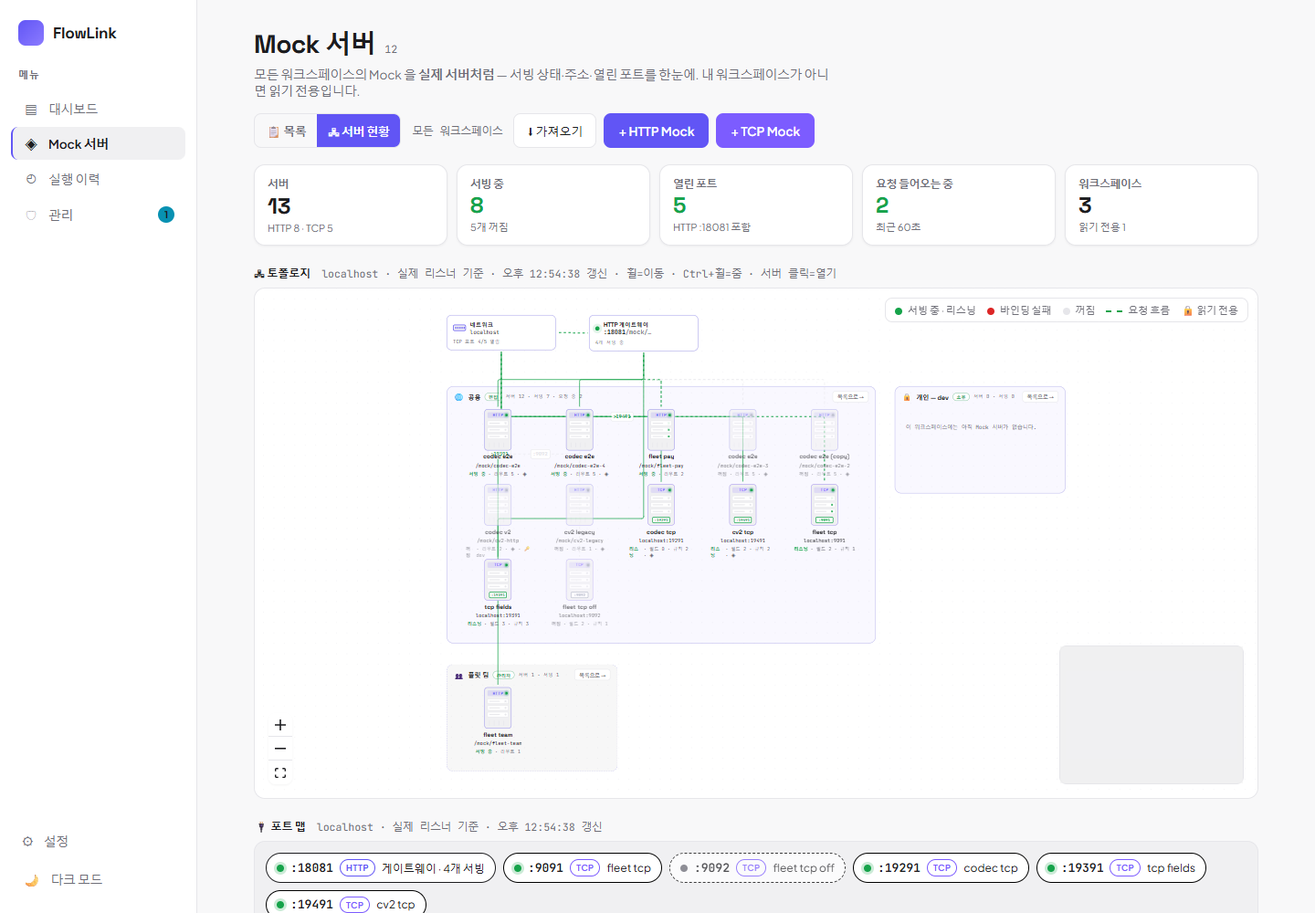
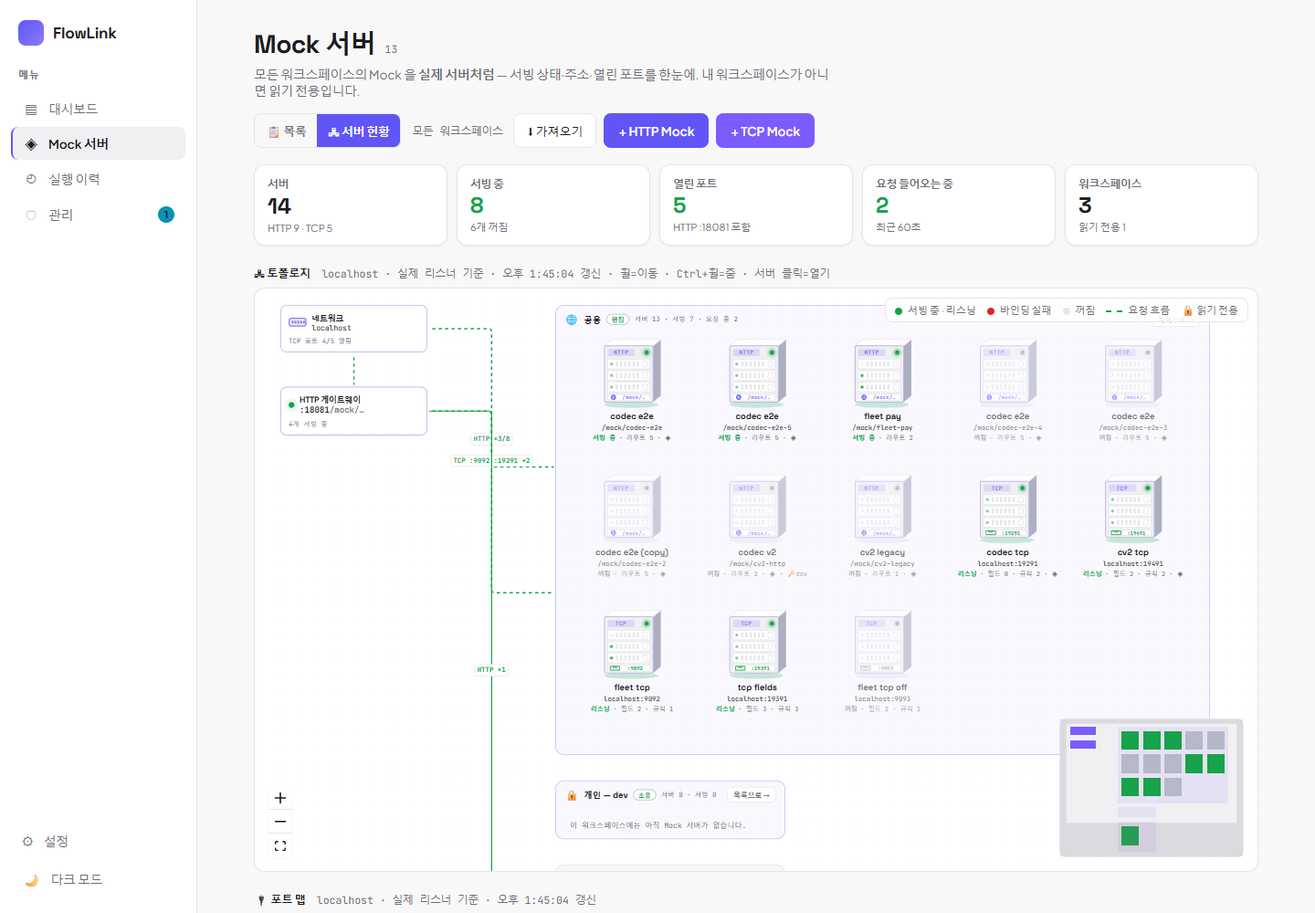
feat(mock): 서버 현황 토폴로지 — 2.5D 랙 서버 아이콘(LED·포트 잭·호버 카드) + 왼쪽 열/존 세로 배치 + 존 단위 선
- 서버마다 컴퓨터 아이콘(전원 LED·활동 LED·HTTP/TCP·포트 잭·바닥 광), 호버 상세 카드(옆으로, 마지막 열은 왼쪽)
- 네트워크/게이트웨이 왼쪽 열, 워크스페이스 존 오른쪽 세로 쌓기, 선은 존 단위(HTTP ×N / TCP :포트…) — 서버를 가로지르지 않음
- 맞춤 뷰포트 직접 계산(넘치면 왼쪽 위부터), 미니맵 노드 렌더(onNodesChange 누락 수정)
- fleet.mjs 38 + product/split/ui 무회귀, 가이드 10장·스크린샷 갱신

Claude-Session: https://claude.ai/code/session_015D7zBGLc7rVy3vDsMZaV2x

diff --git a/frontend/src/components/MockTopology.tsx b/frontend/src/components/MockTopology.tsx
@@ -1,7 +1,7 @@
-import { Background, Controls, Handle, MiniMap, Panel, Position, ReactFlow, useEdgesState, useNodesState } from '@xyflow/react'
+import { Background, Controls, Handle, MiniMap, Panel, Position, ReactFlow, getNodesBounds, useEdgesState, useNodesState } from '@xyflow/react'
 import type { Edge, Node, NodeProps, ReactFlowInstance } from '@xyflow/react'
 import type { CSSProperties } from 'react'
-import { useEffect, useMemo, useRef } from 'react'
+import { useEffect, useMemo, useRef, useState } from 'react'
 import type { MockFleet, MockFleetServer, MockFleetWorkspace } from '../api/types'
 import { mockBaseUrl } from '../api/client'
 import { relTime } from '../lib/format'
@@ -12,7 +12,7 @@ import { relTime } from '../lib/format'
  * 켜짐/꺼짐/바인딩 실패는 전원 LED·선 색으로, 요청이 들어오면 활동 LED 가 깜빡이고 선이 흐른다. 팬/줌·미니맵·맞춤.
  * 위치는 데이터에서 계산(드래그 없음) — 5초 폴링마다 상태만 갱신.
  */
-export function MockTopology({ fleet, host, tenant, onOpen, onOpenWorkspace, height = 560 }: {
+export function MockTopology({ fleet, host, tenant, onOpen, onOpenWorkspace, height = 640 }: {
   fleet: MockFleet
   host: string
   tenant?: string | null
@@ -21,28 +21,45 @@ export function MockTopology({ fleet, host, tenant, onOpen, onOpenWorkspace, hei
   height?: number
 }) {
   const built = useMemo(() => buildGraph(fleet, host, tenant, onOpenWorkspace), [fleet, host, tenant, onOpenWorkspace])
-  const [nodes, setNodes] = useNodesState<Node>(built.nodes)
-  const [edges, setEdges] = useEdgesState<Edge>(built.edges)
+  // onNodesChange 를 꼭 넘겨야 측정(dimensions) 변경이 nodes 에 반영된다 — 없으면 미니맵이 노드를 못 그리고 bounds 도 0 크기
+  const [nodes, setNodes, onNodesChange] = useNodesState<Node>(built.nodes)
+  const [edges, setEdges, onEdgesChange] = useEdgesState<Edge>(built.edges)
   const inst = useRef<ReactFlowInstance<Node, Edge> | null>(null)
   const shapeRef = useRef('')
+  const wrapRef = useRef<HTMLDivElement>(null)
+  /** 맞춤 — RF fitView 는 비동기(다음 프레임)라 뷰포트를 직접 계산: 다 들어가면 가운데, 줌 하한에 걸려 넘치면 왼쪽 위(네트워크·게이트웨이·첫 존)부터. */
+  const fit = (i: ReactFlowInstance<Node, Edge> | null) => {
+    const el = wrapRef.current
+    if (!i || !el) return
+    const b = getNodesBounds(i.getNodes())
+    if (!(b.width > 0 && b.height > 0)) return
+    const cw = el.clientWidth, ch = el.clientHeight, pad = 28
+    const z = Math.min(FIT.maxZoom, Math.max(FIT.minZoom, Math.min((cw - pad * 2) / b.width, (ch - pad * 2) / b.height)))
+    const fits = b.width * z <= cw - pad * 2 && b.height * z <= ch - pad * 2
+    void i.setViewport({
+      x: (fits ? (cw - b.width * z) / 2 : pad) - b.x * z,
+      y: (fits ? (ch - b.height * z) / 2 : 18) - b.y * z,
+      zoom: z,
+    })
+  }
   useEffect(() => {
     setNodes(built.nodes); setEdges(built.edges)
     // 서버 집합/존 배치가 바뀌었을 때만 맞춤(상태 폴링마다 뷰가 튀지 않게)
     const shape = built.nodes.map((n) => `${n.id}@${Math.round(n.position.x)},${Math.round(n.position.y)}`).join('|')
-    if (shape !== shapeRef.current) { shapeRef.current = shape; setTimeout(() => inst.current?.fitView({ padding: 0.12, duration: 300 }), 30) }
+    if (shape !== shapeRef.current) { shapeRef.current = shape; setTimeout(() => fit(inst.current), 60) }
   }, [built, setNodes, setEdges])
   return (
-    <div className="fl-topology" aria-label="서버 토폴로지" style={{ height, border: '1px solid var(--fl-border)', borderRadius: 'var(--fl-radius)', background: 'var(--fl-surface)', overflow: 'hidden', position: 'relative' }}>
-      <ReactFlow nodes={nodes} edges={edges} nodeTypes={NODE_TYPES} onInit={(i) => { inst.current = i; i.fitView({ padding: 0.12 }) }}
+    <div ref={wrapRef} className="fl-topology" aria-label="서버 토폴로지" style={{ height, border: '1px solid var(--fl-border)', borderRadius: 'var(--fl-radius)', background: 'var(--fl-surface)', overflow: 'hidden', position: 'relative' }}>
+      <ReactFlow nodes={nodes} edges={edges} onNodesChange={onNodesChange} onEdgesChange={onEdgesChange} nodeTypes={NODE_TYPES} onInit={(i) => { inst.current = i; setTimeout(() => fit(i), 60) }}
         nodesDraggable={false} nodesConnectable={false} elementsSelectable={false} panOnScroll zoomOnDoubleClick={false} minZoom={0.25} maxZoom={1.8}
-        proOptions={{ hideAttribution: true }} fitView
+        proOptions={{ hideAttribution: true }}
         onNodeClick={(_, n) => { const s = (n.data as { server?: MockFleetServer }).server; if (s && s.readable) onOpen(s) }}>
         <Background gap={22} color="var(--fl-border)" />
-        <MiniMap pannable zoomable nodeStrokeWidth={2} nodeColor={(n) => {
+        <MiniMap pannable zoomable nodeStrokeWidth={0} nodeBorderRadius={4} maskColor="rgba(120,120,140,0.18)" nodeColor={(n) => {
           const s = (n.data as { server?: MockFleetServer }).server
-          if (!s) return n.type === 'fzone' ? 'transparent' : 'var(--fl-text-muted)'
-          return machineState(s) === 'on' ? 'var(--fl-ok)' : machineState(s) === 'fail' ? 'var(--fl-fail)' : 'var(--fl-border)'
-        }} style={{ background: 'var(--fl-surface-2)' }} />
+          if (!s) return n.type === 'fzone' ? 'rgba(124,92,255,0.10)' : '#7c5cff'
+          return machineState(s) === 'on' ? '#16a34a' : machineState(s) === 'fail' ? '#dc2626' : '#b4b8c8'
+        }} style={{ background: 'var(--fl-surface-2)', border: '1px solid var(--fl-border)', borderRadius: 8 }} />
         <Controls showInteractive={false} />
         <Panel position="top-right" style={legend}>
           <span><i style={{ ...dot, background: 'var(--fl-ok)' }} /> 서빙 중 · 리스닝</span>
@@ -58,7 +75,9 @@ export function MockTopology({ fleet, host, tenant, onOpen, onOpenWorkspace, hei
 
 // ---------- 그래프 조립(위치 계산) ----------
 
-const CELL_W = 172, CELL_H = 158, ZONE_PAD = 22, ZONE_HEAD = 46, MAX_COLS = 5, ROW_GAP = 44, COL_GAP = 40, MAX_ROW_W = 1360
+const CELL_W = 196, CELL_H = 212, ZONE_PAD = 22, ZONE_HEAD = 46, MAX_COLS = 5, ROW_GAP = 40, ZONE_X = 430 // 왼쪽 열(장비 230) + 거터 200(선·라벨)
+/** 맞춤 줌 — 서버가 많아도 아이콘이 너무 작아지지 않게 하한(0.7)을 두고 넘치면 팬으로 본다. */
+const FIT = { minZoom: 0.7, maxZoom: 1.05 }
 export type MachineState = 'on' | 'off' | 'fail'
 export function machineState(s: MockFleetServer): MachineState {
   return s.kind === 'TCP' ? (s.listening ? 'on' : s.listenError ? 'fail' : 'off') : (s.enabled ? 'on' : 'off')
@@ -77,47 +96,53 @@ function buildGraph(f: MockFleet, host: string, tenant: string | null | undefine
   const anyHttpLive = f.servers.some((s) => s.kind !== 'TCP' && s.recentRequests > 0)
   const tcpOpen = f.ports.filter((p) => p.kind === 'TCP' && p.state === 'LISTENING').length
   nodes.push({ id: 'net', type: 'fnet', position: { x: 0, y: 0 }, data: { host, tcpOpen, tcpTotal: f.ports.filter((p) => p.kind === 'TCP').length }, draggable: false, selectable: false })
-  nodes.push({ id: 'gw', type: 'fgw', position: { x: 300, y: 0 }, data: { port: f.httpPort, count: f.ports.find((p) => p.kind === 'HTTP')?.count ?? 0, contextPath: f.contextPath, live: anyHttpLive }, draggable: false, selectable: false })
-  edges.push({ id: 'net-gw', source: 'net', sourceHandle: 'r', target: 'gw', targetHandle: 'l', type: 'smoothstep', animated: anyHttpLive, style: { stroke: 'var(--fl-ok)', strokeWidth: 2 } })
+  nodes.push({ id: 'gw', type: 'fgw', position: { x: 0, y: 128 }, data: { port: f.httpPort, count: f.ports.find((p) => p.kind === 'HTTP')?.count ?? 0, contextPath: f.contextPath, live: anyHttpLive }, draggable: false, selectable: false })
+  edges.push({ id: 'net-gw', source: 'net', sourceHandle: 'b', target: 'gw', targetHandle: 't', type: 'smoothstep', animated: anyHttpLive, style: { stroke: 'var(--fl-ok)', strokeWidth: 2 } })
 
-  // 존 배치 — 왼쪽부터 채우고 폭이 넘치면 다음 줄
-  let x = 0, y = 150, rowH = 0
+  // 존 배치 — 오른쪽 열에 세로로 쌓는다(선은 왼쪽 거터만 타므로 다른 존을 가로지르지 않음)
+  const x = ZONE_X
+  let y = 0
   for (const w of zones) {
     const servers = byWs.get(w.id) ?? []
     const n = servers.length
     const cols = Math.max(1, Math.min(MAX_COLS, n))
     const rows = Math.max(1, Math.ceil(n / cols))
     const zw = Math.max(360, ZONE_PAD * 2 + cols * CELL_W)
-    const zh = ZONE_HEAD + ZONE_PAD + rows * CELL_H
-    if (x > 0 && x + zw > MAX_ROW_W) { x = 0; y += rowH + ROW_GAP; rowH = 0 }
+    const zh = n === 0 ? ZONE_HEAD + 46 : ZONE_HEAD + ZONE_PAD + rows * CELL_H
     const zid = `ws:${w.id}`
     nodes.push({ id: zid, type: 'fzone', position: { x, y }, data: { ws: w, count: n, on: servers.filter((s) => machineState(s) === 'on').length, live: servers.filter((s) => s.recentRequests > 0).length, onOpen: onOpenWorkspace }, style: { width: zw, height: zh }, zIndex: -1, draggable: false, selectable: false })
     servers.forEach((s, i) => {
       const col = i % cols, row = Math.floor(i / cols)
       const px = x + ZONE_PAD + col * CELL_W + (CELL_W - MACHINE_W) / 2
       const py = y + ZONE_HEAD + row * CELL_H
-      nodes.push({ id: `m:${s.id}`, type: 'fmachine', position: { x: px, y: py }, data: { server: s, host, tenant }, draggable: false, selectable: false })
-      const st = machineState(s)
-      const live = s.recentRequests > 0
-      const color = st === 'on' ? 'var(--fl-ok)' : st === 'fail' ? 'var(--fl-fail)' : 'var(--fl-border-strong, var(--fl-border))'
-      const isTcp = s.kind === 'TCP'
-      edges.push({
-        id: `e:${s.id}`, source: isTcp ? 'net' : 'gw', sourceHandle: isTcp ? 'b' : 'b', target: `m:${s.id}`, targetHandle: 't', type: 'smoothstep', animated: live,
-        label: isTcp && s.tcpPort != null ? `:${s.tcpPort}` : undefined,
-        labelStyle: { fontFamily: 'var(--fl-font-mono)', fontSize: 10.5, fill: color, fontWeight: 700 },
-        labelBgStyle: { fill: 'var(--fl-surface)', stroke: 'var(--fl-border)' }, labelBgPadding: [4, 2], labelBgBorderRadius: 4,
-        style: { stroke: color, strokeWidth: live ? 2 : 1.4, strokeDasharray: st === 'off' ? '5 5' : undefined, opacity: st === 'off' ? 0.7 : 1 },
-      })
+      nodes.push({ id: `m:${s.id}`, type: 'fmachine', position: { x: px, y: py }, data: { server: s, host, tenant, cardSide: col >= cols - 1 ? 'left' : 'right' }, draggable: false, selectable: false })
     })
-    x += zw + COL_GAP
-    rowH = Math.max(rowH, zh)
+    // 선은 존 단위 — 서버마다 그으면 아이콘을 가로질러 지저분하다. 서버별 포트/상태는 아이콘(포트 잭·LED)에 있다.
+    const https = servers.filter((s) => s.kind !== 'TCP'), tcps = servers.filter((s) => s.kind === 'TCP')
+    if (https.length) {
+      const on = https.filter((s) => machineState(s) === 'on').length, live = https.some((s) => s.recentRequests > 0)
+      const color = on ? 'var(--fl-ok)' : 'var(--fl-border-strong, var(--fl-border))'
+      edges.push({ id: `eh:${w.id}`, source: 'gw', sourceHandle: 'r', target: zid, targetHandle: 'h', type: 'smoothstep', animated: live, label: `HTTP ×${on}${on < https.length ? `/${https.length}` : ''}`,
+        labelStyle: { fontFamily: 'var(--fl-font-mono)', fontSize: 10.5, fill: color, fontWeight: 700 }, labelBgStyle: { fill: 'var(--fl-surface)', stroke: 'var(--fl-border)' }, labelBgPadding: [4, 2], labelBgBorderRadius: 4,
+        style: { stroke: color, strokeWidth: live ? 2.2 : 1.6, strokeDasharray: on ? undefined : '5 5' } })
+    }
+    if (tcps.length) {
+      const open = tcps.filter((s) => s.listening), live = tcps.some((s) => s.recentRequests > 0), failed = tcps.some((s) => machineState(s) === 'fail')
+      const color = failed ? 'var(--fl-fail)' : open.length ? 'var(--fl-ok)' : 'var(--fl-border-strong, var(--fl-border))'
+      const ports = open.map((s) => s.tcpPort ?? 0).sort((a, b) => a - b).map((p) => `:${p}`)
+      const label = open.length ? `TCP ${ports.slice(0, 2).join(' ')}${ports.length > 2 ? ` +${ports.length - 2}` : ''}` : failed ? 'TCP 바인딩 실패' : 'TCP 꺼짐'
+      edges.push({ id: `et:${w.id}`, source: 'net', sourceHandle: 'r', target: zid, targetHandle: 't', type: 'smoothstep', animated: live, label,
+        labelStyle: { fontFamily: 'var(--fl-font-mono)', fontSize: 10.5, fill: color, fontWeight: 700 }, labelBgStyle: { fill: 'var(--fl-surface)', stroke: 'var(--fl-border)' }, labelBgPadding: [4, 2], labelBgBorderRadius: 4,
+        style: { stroke: color, strokeWidth: live ? 2.2 : 1.6, strokeDasharray: open.length ? undefined : '5 5' } })
+    }
+    y += zh + ROW_GAP
   }
   return { nodes, edges }
 }
 
 // ---------- 노드 컴포넌트 ----------
 
-const MACHINE_W = 136
+const MACHINE_W = 160
 
 function NetNode({ data }: NodeProps) {
   const d = data as { host: string; tcpOpen: number; tcpTotal: number }
@@ -149,8 +174,8 @@ function GatewayNode({ data }: NodeProps) {
         </div>
       </div>
       <div style={{ ...mono, fontSize: 10.5, marginTop: 6 }}>{d.count}개 서빙 중</div>
-      <Handle id="l" type="target" position={Position.Left} style={hiddenHandle} />
-      <Handle id="b" type="source" position={Position.Bottom} style={hiddenHandle} />
+      <Handle id="t" type="target" position={Position.Top} style={hiddenHandle} />
+      <Handle id="r" type="source" position={Position.Right} style={hiddenHandle} />
     </div>
   )
 }
@@ -171,85 +196,119 @@ function ZoneNode({ data }: NodeProps) {
         <span style={{ ...mono, fontSize: 10.5 }}>서버 {d.count} · 서빙 {d.on}{d.live ? ` · 요청 중 ${d.live}` : ''}</span>
         {readable && <button onClick={(e) => { e.stopPropagation(); d.onOpen(w.id) }} style={zoneBtn} title="이 워크스페이스의 목록 보기">목록으로 →</button>}
       </div>
-      {d.count === 0 && <div style={{ ...mono, position: 'absolute', left: ZONE_PAD, top: ZONE_HEAD + 30, fontSize: 11.5 }}>이 워크스페이스에는 아직 Mock 서버가 없습니다.</div>}
+      {d.count === 0 && <div style={{ ...mono, position: 'absolute', left: ZONE_PAD, top: ZONE_HEAD + 14, fontSize: 11.5 }}>이 워크스페이스에는 아직 Mock 서버가 없습니다.</div>}
+      <Handle id="h" type="target" position={Position.Left} style={{ ...hiddenHandle, top: '36%' }} />
+      <Handle id="t" type="target" position={Position.Left} style={{ ...hiddenHandle, top: '64%' }} />
     </div>
   )
 }
 
 function MachineNode({ data }: NodeProps) {
-  const { server: s, host, tenant } = data as { server: MockFleetServer; host: string; tenant?: string | null }
+  const { server: s, host, tenant, cardSide } = data as { server: MockFleetServer; host: string; tenant?: string | null; cardSide?: 'left' | 'right' }
+  const [hover, setHover] = useState(false)
   const st = machineState(s)
   const isTcp = s.kind === 'TCP'
   const live = s.recentRequests > 0
   const kindColor = isTcp ? 'var(--fl-cat-tcp, #7c5cff)' : 'var(--fl-cat-http, var(--fl-primary))'
   const ledColor = st === 'on' ? 'var(--fl-ok)' : st === 'fail' ? 'var(--fl-fail)' : 'var(--fl-border-strong, #9aa0b2)'
   const readOnly = !s.readable || s.myRole === 'VIEWER'
-  const address = isTcp ? `${host}:${s.tcpPort ?? '?'}` : mockBaseUrl(s.slug, tenant).replace(/^https?:\/\/[^/]+/, '')
+  const fullAddress = isTcp ? `${host}:${s.tcpPort ?? '?'}` : mockBaseUrl(s.slug, tenant)
+  const address = isTcp ? fullAddress : fullAddress.replace(/^https?:\/\/[^/]+/, '')
   const stateLabel = isTcp ? (st === 'on' ? '리스닝' : st === 'fail' ? '바인딩 실패' : '꺼짐') : (st === 'on' ? '서빙 중' : '꺼짐')
   const summary = !s.readable ? (isTcp ? `규칙 ${s.tcpRuleCount}` : `라우트 ${s.routeCount}`) + ' · 정의 비공개'
     : isTcp ? `필드 ${s.tcpFieldCount} · 규칙 ${s.tcpRuleCount}${s.hasCodec ? ' · ◈' : ''}` : `라우트 ${s.routeCount}${s.hasCodec ? ' · ◈' : ''}${s.environment ? ` · 🔑${s.environment}` : ''}`
-  const title = [
-    `${s.name} — ${isTcp ? 'TCP' : 'HTTP'} · ${stateLabel}${s.listenError ? ` (${s.listenError})` : ''}`,
-    isTcp ? `${host}:${s.tcpPort ?? '?'}` : mockBaseUrl(s.slug, tenant),
-    s.readable ? (s.routeLabels.length ? s.routeLabels.join(' · ') : summary) : '접근 권한이 없는 워크스페이스 — 이름·포트·상태만',
-    s.lastRequestAt ? `마지막 요청 ${relTime(s.lastRequestAt)} · 기록 ${s.requestCount}${s.unmatchedRequests ? ` · 무매칭 ${s.unmatchedRequests}` : ''}` : '요청 없음',
-    s.currentVersion ? `v${s.currentVersion}` : '',
-    s.readable ? (readOnly ? '읽기 전용 — 클릭하면 열람' : '클릭하면 편집기') : '',
-  ].filter(Boolean).join('\n')
   return (
-    <div className="fl-machine" data-state={st} data-readable={s.readable} data-kind={isTcp ? 'TCP' : 'HTTP'} title={title}
-      style={{ width: MACHINE_W, display: 'grid', justifyItems: 'center', gap: 3, cursor: s.readable ? 'pointer' : 'not-allowed', opacity: st === 'off' ? 0.62 : 1 }}>
+    <div className="fl-machine" data-state={st} data-readable={s.readable} data-kind={isTcp ? 'TCP' : 'HTTP'}
+      onMouseEnter={() => setHover(true)} onMouseLeave={() => setHover(false)}
+      style={{ width: MACHINE_W, display: 'grid', justifyItems: 'center', gap: 2, cursor: s.readable ? 'pointer' : 'not-allowed', opacity: st === 'off' ? 0.62 : 1, position: 'relative' }}>
       <Handle id="t" type="target" position={Position.Top} style={hiddenHandle} />
-      <Tower kindColor={kindColor} ledColor={ledColor} live={live} isTcp={isTcp} port={s.tcpPort ?? null} fail={st === 'fail'} lock={readOnly} unmatched={s.unmatchedRequests > 0} />
-      <div style={{ fontFamily: 'var(--fl-font-head)', fontWeight: 700, fontSize: 12.5, color: 'var(--fl-text)', maxWidth: MACHINE_W, overflow: 'hidden', textOverflow: 'ellipsis', whiteSpace: 'nowrap', textAlign: 'center' }}>{s.name}</div>
+      <Tower kindColor={kindColor} ledColor={ledColor} state={st} live={live} isTcp={isTcp} port={s.tcpPort ?? null} lock={readOnly} unmatched={s.unmatchedRequests > 0} />
+      <div style={{ fontFamily: 'var(--fl-font-head)', fontWeight: 800, fontSize: 13.5, color: 'var(--fl-text)', maxWidth: MACHINE_W, overflow: 'hidden', textOverflow: 'ellipsis', whiteSpace: 'nowrap', textAlign: 'center', marginTop: 2 }}>{s.name}</div>
       <div style={{ ...mono, fontSize: 10.5, color: 'var(--fl-text)', maxWidth: MACHINE_W, overflow: 'hidden', textOverflow: 'ellipsis', whiteSpace: 'nowrap' }}>{address}</div>
-      <div style={{ ...mono, fontSize: 10, display: 'flex', gap: 5, alignItems: 'center' }}>
+      <div style={{ ...mono, fontSize: 10, display: 'flex', gap: 5, alignItems: 'center', maxWidth: MACHINE_W, overflow: 'hidden', whiteSpace: 'nowrap' }}>
         <span style={{ color: st === 'off' ? 'var(--fl-text-muted)' : ledColor, fontWeight: 700 }}>{stateLabel}</span>
-        <span>· {summary}</span>
+        <span style={{ overflow: 'hidden', textOverflow: 'ellipsis' }}>· {summary}</span>
       </div>
+      {hover && (
+        <div className="fl-machine-card" role="tooltip" style={{ ...hoverCard, ...(cardSide === 'left' ? { right: 'calc(100% + 6px)' } : { left: 'calc(100% + 6px)' }) }}>
+          <div style={{ display: 'flex', alignItems: 'center', gap: 6, minWidth: 0 }}>
+            <b style={{ fontSize: 13, overflow: 'hidden', textOverflow: 'ellipsis', whiteSpace: 'nowrap', minWidth: 0 }}>{s.name}</b>
+            <span style={{ fontSize: 9.5, fontWeight: 800, color: kindColor, border: '1px solid currentColor', borderRadius: 999, padding: '0 6px', flexShrink: 0 }}>{isTcp ? 'TCP' : 'HTTP'}</span>
+            <span style={{ fontSize: 11, fontWeight: 700, color: st === 'off' ? 'var(--fl-text-muted)' : ledColor, flexShrink: 0 }}>{stateLabel}</span>
+          </div>
+          {s.listenError && <div style={{ fontSize: 11, color: 'var(--fl-fail)' }}>{s.listenError}</div>}
+          <div style={{ ...mono, fontSize: 11, color: 'var(--fl-text)', wordBreak: 'break-all' }}>{fullAddress}</div>
+          {s.readable ? (
+            isTcp ? <div style={{ ...mono, fontSize: 10.5 }}>요청 필드 {s.tcpFieldCount} · 규칙 {s.tcpRuleCount}{s.hasCodec ? ' · ◈ 코덱' : ''}{s.environment ? ` · 🔑 ${s.environment}` : ''}</div>
+              : s.routeLabels.length > 0
+                ? <div style={{ display: 'flex', gap: 4, flexWrap: 'wrap' }}>{s.routeLabels.slice(0, 8).map((l, i) => <span key={i} style={cardPill}>{l}</span>)}{s.routeCount > 8 && <span style={cardPill}>+{s.routeCount - 8}</span>}</div>
+                : <div style={{ ...mono, fontSize: 10.5 }}>라우트 없음</div>
+          ) : <div style={{ fontSize: 10.5, color: 'var(--fl-text-muted)' }}>🔒 접근 권한이 없는 워크스페이스 — 이름·포트·상태만 보입니다.</div>}
+          <div style={{ ...mono, fontSize: 10.5 }}>
+            {s.lastRequestAt ? `마지막 요청 ${relTime(s.lastRequestAt)} · 기록 ${s.requestCount}` : '요청 없음'}{s.unmatchedRequests > 0 ? ` · 무매칭 ${s.unmatchedRequests}` : ''}{s.currentVersion > 0 ? ` · v${s.currentVersion}` : ''}
+          </div>
+          {s.readable && <div style={{ fontSize: 10.5, color: 'var(--fl-text-muted)' }}>{readOnly ? '읽기 전용 — 클릭하면 열람' : '클릭하면 편집기로'}</div>}
+        </div>
+      )}
     </div>
   )
 }
 
-/** 서버 타워 일러스트 — 전원 LED(상태)·활동 LED(트래픽 깜빡임)·종류 라벨·TCP 포트 잭. */
-function Tower({ kindColor, ledColor, live, isTcp, port, fail, lock, unmatched }: { kindColor: string; ledColor: string; live: boolean; isTcp: boolean; port: number | null; fail: boolean; lock: boolean; unmatched: boolean }) {
+/**
+ * 서버 아이콘 — 2.5D 랙 서버(윗면·옆면·앞면). 앞면: 종류 라벨 + 전원 LED(상태색·켜지면 광), 랙 유닛 3단(활동 LED=트래픽 깜빡임·통풍구·핸들),
+ * 하단 베젤(TCP=RJ45 잭+포트 / HTTP=글로브). 바닥 그림자는 켜져 있으면 상태색으로 "떠 있는" 느낌. 배지 `!` 바인딩 실패 · `?` 무매칭 · 🔒.
+ */
+function Tower({ kindColor, ledColor, state, live, isTcp, port, lock, unmatched }: {
+  kindColor: string; ledColor: string; state: MachineState; live: boolean; isTcp: boolean; port: number | null; lock: boolean; unmatched: boolean
+}) {
+  const on = state === 'on'
   return (
-    <svg width={76} height={92} viewBox="0 0 76 92" aria-hidden style={{ display: 'block', overflow: 'visible' }}>
+    <svg width={118} height={116} viewBox="0 0 118 116" aria-hidden style={{ display: 'block', overflow: 'visible' }}>
       <defs>
-        <filter id="fl-led-glow" x="-100%" y="-100%" width="300%" height="300%"><feGaussianBlur stdDeviation="1.6" /></filter>
+        <filter id="fl-led-glow" x="-100%" y="-100%" width="300%" height="300%"><feGaussianBlur stdDeviation="2" /></filter>
       </defs>
-      {/* 본체 */}
-      <rect x={10} y={3} width={56} height={86} rx={6} fill="var(--fl-surface-2)" stroke="var(--fl-border-strong, var(--fl-border))" strokeWidth={1.4} />
-      <rect x={10} y={3} width={56} height={86} rx={6} fill="none" stroke={kindColor} strokeWidth={1} opacity={0.5} />
-      {/* 상단 라벨 스트립(종류) */}
-      <rect x={16} y={9} width={44} height={12} rx={2.5} fill={kindColor} opacity={0.14} />
-      <text x={38} y={18} textAnchor="middle" fontSize={8.5} fontWeight={800} fill={kindColor} fontFamily="var(--fl-font-mono)" letterSpacing=".06em">{isTcp ? 'TCP' : 'HTTP'}</text>
-      {/* 전원 LED */}
-      <circle cx={56} cy={15} r={5} fill={ledColor} opacity={0.35} filter="url(#fl-led-glow)" />
-      <circle cx={56} cy={15} r={2.6} fill={ledColor} className={live ? 'fl-led-live' : undefined} />
-      {/* 드라이브 베이 + 활동 LED */}
-      {[0, 1, 2].map((i) => (
-        <g key={i}>
-          <rect x={16} y={27 + i * 14} width={44} height={10} rx={2} fill="var(--fl-surface)" stroke="var(--fl-border)" strokeWidth={1} />
-          <rect x={20} y={31 + i * 14} width={22} height={2} rx={1} fill="var(--fl-border)" />
-          <circle cx={54} cy={32 + i * 14} r={1.9} fill={live ? 'var(--fl-ok)' : 'var(--fl-border)'} className={live ? 'fl-blink' : undefined} style={{ animationDelay: `${i * 0.33}s` }} />
-        </g>
-      ))}
-      {/* 하단: TCP 포트 잭 / HTTP 통풍구 */}
+      {/* 바닥 그림자 — 켜져 있으면 상태색 광 */}
+      <ellipse cx={58} cy={110} rx={42} ry={5} fill={on ? ledColor : 'var(--fl-text-muted)'} opacity={on ? 0.22 : 0.1} />
+      {/* 2.5D 섀시: 옆면 · 윗면 · 앞면 */}
+      <polygon points="92,18 104,8 104,96 92,106" fill="var(--fl-border-strong, #8b90a5)" opacity={0.7} />
+      <polygon points="16,18 28,8 104,8 92,18" fill="var(--fl-surface)" stroke="var(--fl-border-strong, var(--fl-border))" strokeWidth={1} />
+      <rect x={16} y={18} width={76} height={88} rx={3} fill="var(--fl-surface-2)" stroke="var(--fl-border-strong, var(--fl-border))" strokeWidth={1.4} />
+      <rect x={16} y={18} width={76} height={88} rx={3} fill="none" stroke={kindColor} strokeWidth={1} opacity={0.45} />
+      {/* 상단 베젤: 종류 라벨 + 전원 LED */}
+      <rect x={21} y={23} width={42} height={11} rx={2} fill={kindColor} opacity={0.16} />
+      <text x={42} y={31.5} textAnchor="middle" fontSize={8.5} fontWeight={800} fill={kindColor} fontFamily="var(--fl-font-mono)" letterSpacing=".08em">{isTcp ? 'TCP' : 'HTTP'}</text>
+      <circle cx={82} cy={28.5} r={6} fill={ledColor} opacity={on ? 0.45 : 0.18} filter="url(#fl-led-glow)" />
+      <circle cx={82} cy={28.5} r={3.2} fill={ledColor} className={live ? 'fl-led-live' : undefined} />
+      {/* 랙 유닛 3단: 활동 LED · 통풍구 · 핸들 */}
+      {[0, 1, 2].map((i) => {
+        const y = 39 + i * 18
+        return (
+          <g key={i}>
+            <rect x={21} y={y} width={66} height={15} rx={2} fill="var(--fl-surface)" stroke="var(--fl-border)" strokeWidth={1} />
+            <circle cx={27} cy={y + 7.5} r={2.2} fill={live ? 'var(--fl-ok)' : on ? 'color-mix(in srgb, var(--fl-ok) 45%, var(--fl-border))' : 'var(--fl-border)'} className={live ? 'fl-blink' : undefined} style={{ animationDelay: `${i * 0.31}s` }} />
+            {[0, 1, 2, 3, 4, 5].map((j) => <rect key={j} x={34 + j * 6.5} y={y + 3.5} width={3.2} height={8} rx={0.8} fill="var(--fl-border)" />)}
+            <rect x={76} y={y + 3} width={7} height={9} rx={1.5} fill="none" stroke="var(--fl-border-strong, var(--fl-border))" strokeWidth={1.2} />
+          </g>
+        )
+      })}
+      {/* 하단 베젤: TCP=RJ45 잭+포트 / HTTP=글로브+web */}
+      <rect x={21} y={94} width={66} height={9} rx={2} fill="var(--fl-surface)" stroke="var(--fl-border)" strokeWidth={1} />
       {isTcp ? (
         <g>
-          <rect x={20} y={72} width={36} height={12} rx={2.5} fill="var(--fl-surface)" stroke={ledColor} strokeWidth={1.4} />
-          <text x={38} y={81} textAnchor="middle" fontSize={8} fontWeight={800} fill={ledColor} fontFamily="var(--fl-font-mono)">{port != null ? `:${port}` : '—'}</text>
+          <rect x={25} y={95.5} width={15} height={6} rx={1} fill="var(--fl-surface-2)" stroke={ledColor} strokeWidth={1.2} />
+          <rect x={29} y={95.5} width={7} height={2.5} fill={ledColor} opacity={0.6} />
+          <text x={64} y={101.3} textAnchor="middle" fontSize={8} fontWeight={800} fill={ledColor} fontFamily="var(--fl-font-mono)">{port != null ? `:${port}` : '—'}</text>
         </g>
       ) : (
-        <g stroke="var(--fl-border)" strokeWidth={1.2}>
-          {[0, 1, 2, 3].map((i) => <line key={i} x1={20 + i * 10} y1={73} x2={20 + i * 10} y2={83} />)}
+        <g>
+          <g stroke={kindColor} strokeWidth={1.1} fill="none"><circle cx={30} cy={98.5} r={3.4} /><ellipse cx={30} cy={98.5} rx={1.4} ry={3.4} /><line x1={26.6} y1={98.5} x2={33.4} y2={98.5} /></g>
+          <text x={62} y={101.3} textAnchor="middle" fontSize={7.5} fontWeight={800} fill={kindColor} fontFamily="var(--fl-font-mono)" letterSpacing=".08em">/mock/…</text>
         </g>
       )}
       {/* 배지 — 바인딩 실패 / 무매칭 / 읽기 전용 */}
-      {fail && <g><circle cx={12} cy={8} r={7} fill="var(--fl-fail)" /><text x={12} y={11} textAnchor="middle" fontSize={9} fontWeight={900} fill="#fff">!</text></g>}
-      {!fail && unmatched && <g><circle cx={12} cy={8} r={6.5} fill="var(--fl-put, #f5a623)" /><text x={12} y={11} textAnchor="middle" fontSize={8.5} fontWeight={900} fill="#fff">?</text></g>}
-      {lock && <text x={66} y={90} textAnchor="middle" fontSize={11}>🔒</text>}
+      {state === 'fail' && <g><circle cx={18} cy={12} r={7.5} fill="var(--fl-fail)" /><text x={18} y={15.5} textAnchor="middle" fontSize={10} fontWeight={900} fill="#fff">!</text></g>}
+      {state !== 'fail' && unmatched && <g><circle cx={18} cy={12} r={7} fill="var(--fl-put, #f5a623)" /><text x={18} y={15.5} textAnchor="middle" fontSize={9.5} fontWeight={900} fill="#fff">?</text></g>}
+      {lock && <text x={104} y={112} textAnchor="middle" fontSize={13}>🔒</text>}
     </svg>
   )
 }
@@ -275,4 +334,6 @@ const zoneHead: CSSProperties = { display: 'flex', alignItems: 'center', gap: 8,
 const roleChip: CSSProperties = { fontSize: 10, fontWeight: 700, padding: '1px 7px', borderRadius: 999, border: '1px solid var(--fl-border)', background: 'var(--fl-surface)', whiteSpace: 'nowrap' }
 const zoneBtn: CSSProperties = { marginLeft: 'auto', height: 24, border: '1px solid var(--fl-border)', background: 'var(--fl-surface)', color: 'var(--fl-text)', padding: '0 9px', borderRadius: 6, fontSize: 11, cursor: 'pointer' }
 const legend: CSSProperties = { display: 'flex', gap: 12, flexWrap: 'wrap', fontSize: 11, color: 'var(--fl-text-muted)', background: 'color-mix(in srgb, var(--fl-surface) 88%, transparent)', border: '1px solid var(--fl-border)', borderRadius: 8, padding: '5px 10px', margin: 10 }
+const hoverCard: CSSProperties = { position: 'absolute', top: 0, width: 260, display: 'grid', gap: 5, padding: '10px 12px', background: 'var(--fl-surface)', border: '1px solid var(--fl-border)', borderRadius: 10, boxShadow: 'var(--fl-shadow-lg)', color: 'var(--fl-text)', fontSize: 11.5, textAlign: 'left', zIndex: 50, pointerEvents: 'none' }
+const cardPill: CSSProperties = { fontSize: 10, fontFamily: 'var(--fl-font-mono)', padding: '1px 6px', borderRadius: 999, border: '1px solid var(--fl-border)', background: 'var(--fl-surface-2)', color: 'var(--fl-text)', whiteSpace: 'nowrap' }
 const dot: CSSProperties = { display: 'inline-block', width: 8, height: 8, borderRadius: 999, marginRight: 4, verticalAlign: 'middle' }

diff --git a/frontend/src/index.css b/frontend/src/index.css
@@ -293,6 +293,7 @@ button:disabled { cursor: not-allowed !important; opacity: 0.6; }
 .react-flow__node-fzone .fl-zone-head { pointer-events: auto; }
 .fl-topology .react-flow__node { cursor: default; }
 .fl-topology .react-flow__node-fmachine { cursor: pointer; }
+.fl-topology .react-flow__node-fmachine:hover { z-index: 100 !important; } /* 호버 카드가 이웃 서버 위로 */
 
 @keyframes fl-spin {
   to { transform: rotate(360deg); }

diff --git a/docs/guide/10-Mock-서버.md b/docs/guide/10-Mock-서버.md
@@ -32,7 +32,8 @@
 ![서버 현황](images/mocks-fleet.png)
 
 - **현황 스트립**: 서버(HTTP/TCP 수) · 서빙 중 · **열린 포트**(바인딩 실패가 있으면 빨갛게) · 요청 들어오는 중(최근 60초) · 워크스페이스(읽기 전용 수).
-- **🖧 토폴로지(캔버스)**: 서버마다 **컴퓨터(서버 타워)** 가 서 있고, `네트워크(호스트)` → `HTTP 게이트웨이 :앱포트` → HTTP 서버, `네트워크` → TCP 서버(선에 `:포트` 라벨)로 선이 이어집니다. 워크스페이스는 **존(영역)** 으로 묶여 내 소속이 먼저, 남의 것은 점선 존에 🔒. 타워의 전원 LED(초록=서빙 중/리스닝 · 빨강=바인딩 실패 · 회색=꺼짐)와 상단 `HTTP`/`TCP` 라벨, TCP 는 하단 **포트 잭**(`:9091`), 요청이 들어오면 **활동 LED 가 깜빡이고 선이 흐릅니다**. 꺼진 서버는 흐리게 + 점선. `!`=바인딩 실패, `?`=무매칭 요청 있음. 휠=이동, Ctrl+휠=줌, 우하단 미니맵·좌하단 맞춤(⛶). **서버를 클릭하면 편집기**(접근 권한 없는 서버는 열리지 않음), 존 헤더의 **목록으로 →** 로 그 워크스페이스 목록 보기.
+- **🖧 토폴로지(캔버스)**: 왼쪽에 `네트워크(호스트)` 와 `HTTP 게이트웨이 :앱포트` 장비, 오른쪽에 워크스페이스 **존(영역)** 이 세로로 쌓이고 존마다 **서버 컴퓨터(2.5D 랙 서버)** 가 서 있습니다. 선은 존 단위 — 게이트웨이 → 존(`HTTP ×켜진 수/전체`), 네트워크 → 존(`TCP :9091 :19391 +N` 열린 포트) — 라벨이 왼쪽 거터에 붙고 서버를 가로지르지 않습니다. 내 소속 존이 먼저, 남의 것은 점선 존에 🔒.
+  서버 아이콘: 상단 `HTTP`/`TCP` 라벨 + **전원 LED**(초록=서빙 중/리스닝 · 빨강=바인딩 실패 · 회색=꺼짐, 켜져 있으면 바닥에 상태색 광), 랙 유닛의 **활동 LED 는 요청이 들어오면 깜빡이고 선이 흐릅니다**, 하단은 TCP **포트 잭**(`:9091`) / HTTP `/mock/…`. 꺼진 서버는 흐리게. `!`=바인딩 실패, `?`=무매칭 요청 있음. 마우스를 올리면 **상세 카드**(주소·라우트 목록·마지막 요청·버전), **클릭하면 편집기**(접근 권한 없는 서버는 열리지 않음). 휠=이동, Ctrl+휠=줌, 우하단 미니맵·좌하단 맞춤(⛶). 존 헤더의 **목록으로 →** 로 그 워크스페이스 목록 보기.
 - **🔌 포트 맵**: *지금 실제로 열려 있는 소켓* 기준입니다. `:앱포트 HTTP 게이트웨이 · N개 서빙`(모든 HTTP Mock 이 `/mock/{slug}` 로 나가는 포트)이 먼저, 그 뒤 TCP Mock 마다 `:포트` 칩 — **● 리스닝** / **○ 꺼짐**(점선) / **✕ 바인딩 실패**(켜져 있는데 포트를 못 연 경우, 예: 재기동 때 다른 프로세스가 선점). 칩을 클릭하면 그 Mock 편집기가 열립니다.
 - **▸ 워크스페이스별 타일 보기**(맵 아래 토글): 같은 정보를 카드로 — 내 소속(🌐 공용 · 🔒 내 개인 · 👥 멤버인 팀)이 먼저, 나머지는 **🔒 다른 워크스페이스**로 접혀 있습니다. 헤더에 내 롤(소유 / 편집 / 읽기 전용 / 접근 없음)·서버 수·서빙 수·포트 목록, **목록으로 →**.
   타일: 랙 아이콘 + 상태 LED · `HTTP`/`TCP` · 주소(HTTP 는 base URL 클릭 복사, TCP 는 `호스트:포트`) · 라우트 칩 또는 요청 필드·규칙 수 · 마지막 요청 · `vN`. 편집 권한이 있으면 **켜기/끄기 스위치**, 타일을 클릭하면 편집기.
